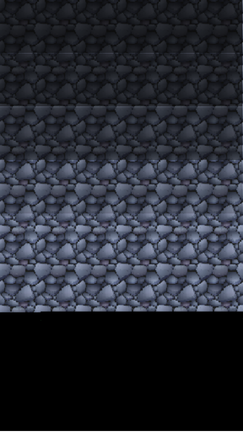
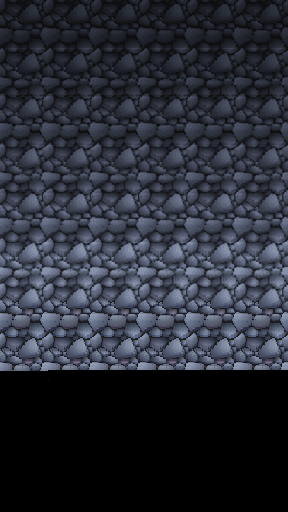
Imagens temporárias para cubo e plataforma e fundo se movendo

diff --git a/main.py b/main.py
@@ -15,10 +15,12 @@ TELA_ALTURA = 800
 # Imagens — substitua pelos seus arquivos em ./imgs/
 IMAGEM_BACKGROUND = pygame.transform.scale2x(pygame.image.load(os.path.join('imgs', 'bg.png')))
 IMAGEM_CHAO = pygame.transform.scale2x(pygame.image.load(os.path.join('imgs', 'base.png')))
+IMAGEM_CUBO = pygame.transform.scale2x(pygame.image.load(os.path.join('imgs', 'cubo.png')))
+IMAGEM_PLATAFORMA = pygame.transform.scale2x(pygame.image.load(os.path.join('imgs', 'plataforma.png')))
 
 # Configurações do cubo (usar retângulo simples, sem imagem)
-CUBO_LARGURA = 40
-CUBO_ALTURA = 40
+CUBO_LARGURA = 50
+CUBO_ALTURA = 50
 CUBO_X = 100  # posição fixa X do jogador (será sobrescrito para centralizar sobre a plataforma inicial)
 
 pygame.font.init()
@@ -39,8 +41,10 @@ class Cubo:
         self.retangulo = pygame.Rect(self.x, self.y, self.largura, self.altura)
         self.em_sobre = False  # indica se o cubo está sobre uma plataforma
 
+        # pré-escalar imagem do cubo ao tamanho do retângulo
+        self.img = pygame.transform.scale(IMAGEM_CUBO, (self.largura, self.altura))
+
     def pular(self):
-        # só pode pular se estiver sobre uma plataforma
         if self.em_sobre:
             self.vel = self.FORCA_PULO
             self.em_sobre = False
@@ -50,10 +54,12 @@ class Cubo:
         if self.vel > self.MAX_VELOCIDADE:
             self.vel = self.MAX_VELOCIDADE
         self.y += self.vel
-        self.retangulo.topleft = (self.x, round(self.y))
+        self.retangulo.topleft = (round(self.x), round(self.y))
 
     def desenhar(self, tela):
-        pygame.draw.rect(tela, (200, 30, 30), self.retangulo)
+        tela.blit(self.img, (round(self.x), round(self.y)))
+        # opção: desenhar retângulo de debug (colisão)
+        # pygame.draw.rect(tela, (255,0,0), self.retangulo, 1)
 
     def colidir_com(self, plataforma):
         return self.retangulo.colliderect(plataforma.ret)
@@ -67,15 +73,20 @@ class Plataforma:
         self.y = y
         self.largura = largura
         self.altura = altura
-        self.ret = pygame.Rect(self.x, self.y, self.largura, self.altura)
+        self.ret = pygame.Rect(round(self.x), self.y, self.largura, self.altura)
         self.passou = False  # não usado para score neste layout
+
+        # pré-escalar imagem da plataforma ao tamanho desejado
+        self.img = pygame.transform.scale(IMAGEM_PLATAFORMA, (self.largura, self.altura))
 
     def mover(self):
         self.x -= self.VELOCIDADE
         self.ret.topleft = (round(self.x), self.y)
 
     def desenhar(self, tela):
-        pygame.draw.rect(tela, (50, 150, 50), self.ret)
+        tela.blit(self.img, (round(self.x), self.y))
+        # opção: desenhar retângulo de debug (colisão)
+        # pygame.draw.rect(tela, (0,0,0), self.ret, 1)
 
 
 class Chao:
@@ -102,8 +113,31 @@ class Chao:
         tela.blit(self.IMAGEM, (self.x2, self.y))
 
 
-def desenhar_tela(tela, cubos, plataformas, chao, pontos, tempo_inicio, pontos_max=0):
-    tela.blit(IMAGEM_BACKGROUND, (0, 0))
+class Fundo:
+    VELOCIDADE = 2
+    LARGURA = IMAGEM_BACKGROUND.get_width()
+    ALTURA = IMAGEM_BACKGROUND.get_height()
+
+    def __init__(self):
+        self.x1 = 0
+        self.x2 = self.LARGURA
+
+    def mover(self):
+        self.x1 -= self.VELOCIDADE
+        self.x2 -= self.VELOCIDADE
+
+        if self.x1 + self.LARGURA < 0:
+            self.x1 = self.x2 + self.LARGURA
+        if self.x2 + self.LARGURA < 0:
+            self.x2 = self.x1 + self.LARGURA
+
+    def desenhar(self, tela):
+        tela.blit(IMAGEM_BACKGROUND, (self.x1, 0))
+        tela.blit(IMAGEM_BACKGROUND, (self.x2, 0))
+
+
+def desenhar_tela(tela, cubos, plataformas, chao, fundo, pontos, tempo_inicio, pontos_max=0):
+    fundo.desenhar(tela)
     for cubo in cubos:
         cubo.desenhar(tela)
     for p in plataformas:
@@ -171,6 +205,7 @@ def main(genomas, config):
         redes = []
 
     chao = Chao(730)
+    fundo = Fundo()
     plataformas = criar_plataformas_iniciais()
 
     # posicionar cubos corretamente sobre a primeira plataforma (centralizados)
@@ -288,6 +323,7 @@ def main(genomas, config):
 
         # mover chão (fundo em movimento)
         chao.mover()
+        fundo.mover()
 
         # atualizar pontuação por tempo (1 ponto por segundo vivo)
         segundos = int(time.time() - tempo_inicio)
@@ -301,7 +337,7 @@ def main(genomas, config):
         global max_pontos
         if pontos > max_pontos:
             max_pontos = pontos
-        desenhar_tela(tela, cubos, plataformas, chao, pontos, tempo_inicio, pontos_max=max_pontos)
+        desenhar_tela(tela, cubos, plataformas, chao, fundo, pontos, tempo_inicio, pontos_max=max_pontos)
 
 
 def rodar(caminhoConfig):
